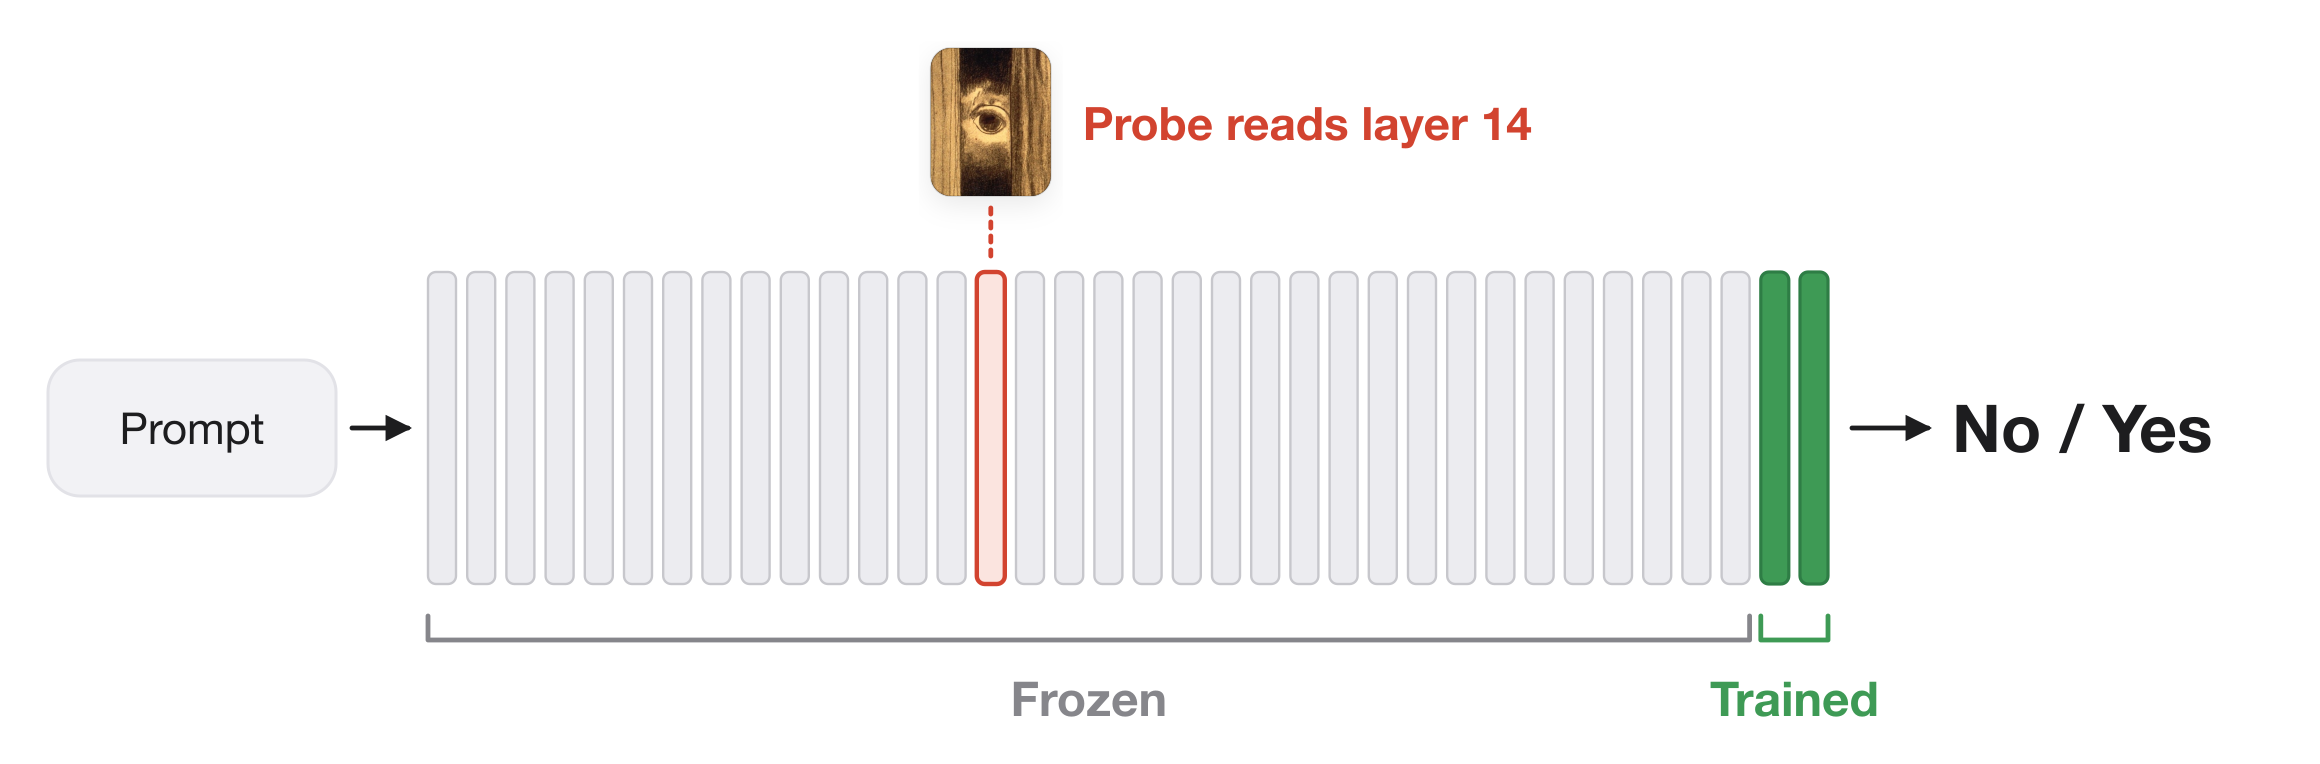
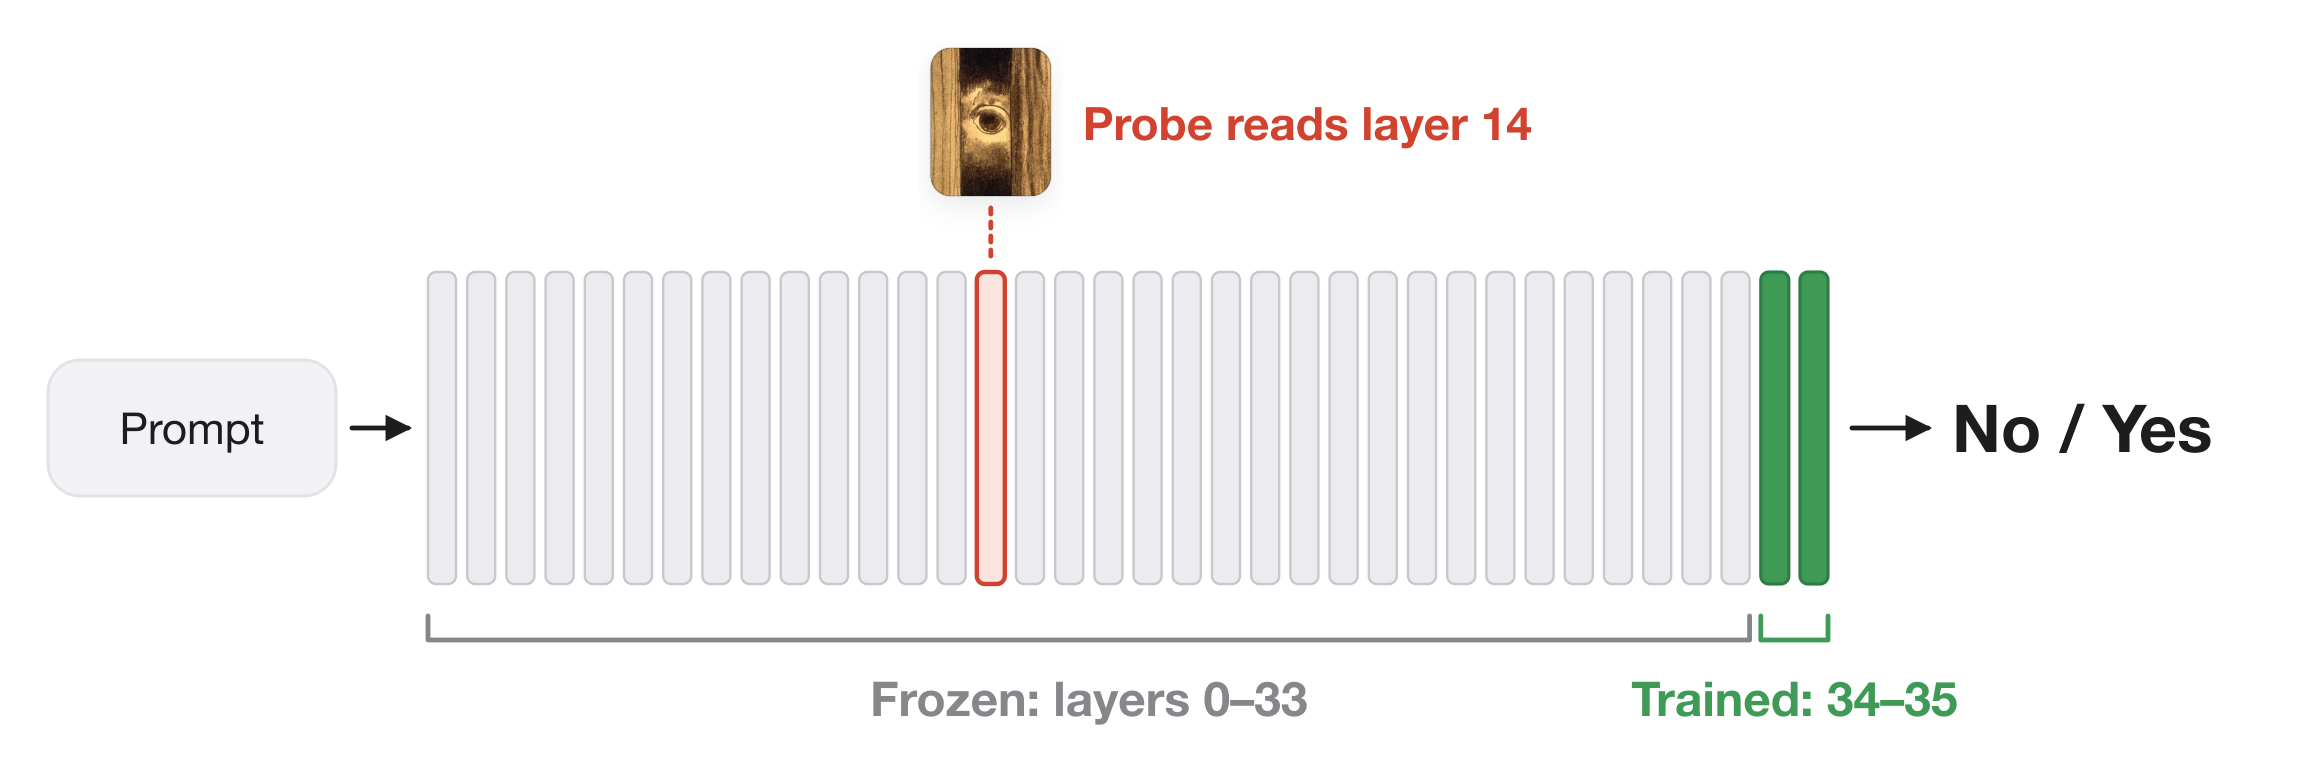
Number the frozen and trained layers in the recipe figure

Changed region(s): [[0.6828, 0.873, 0.869, 0.9332], [0.3724, 0.873, 0.5897, 0.9634]]

diff --git a/scripts/make_diagrams.py b/scripts/make_diagrams.py
@@ -460,7 +460,7 @@ def recipe(out, tiles):
         f'stroke-width="2.4" stroke-dasharray="3 4" stroke-linecap="round"/>'
     )
     parts.append(text(probe + 46, 70, "Probe reads layer 14", 23, True, RED))
-    for first, last, label, color in ((0, 33, "Frozen", MUTED), (34, 35, "Trained", GREEN)):
+    for first, last, label, color in ((0, 33, "Frozen: layers 0–33", MUTED), (34, 35, "Trained: 34–35", GREEN)):
         left, right = xs[first], xs[last] + bar
         y = bottom + height + 16
         parts.append(
